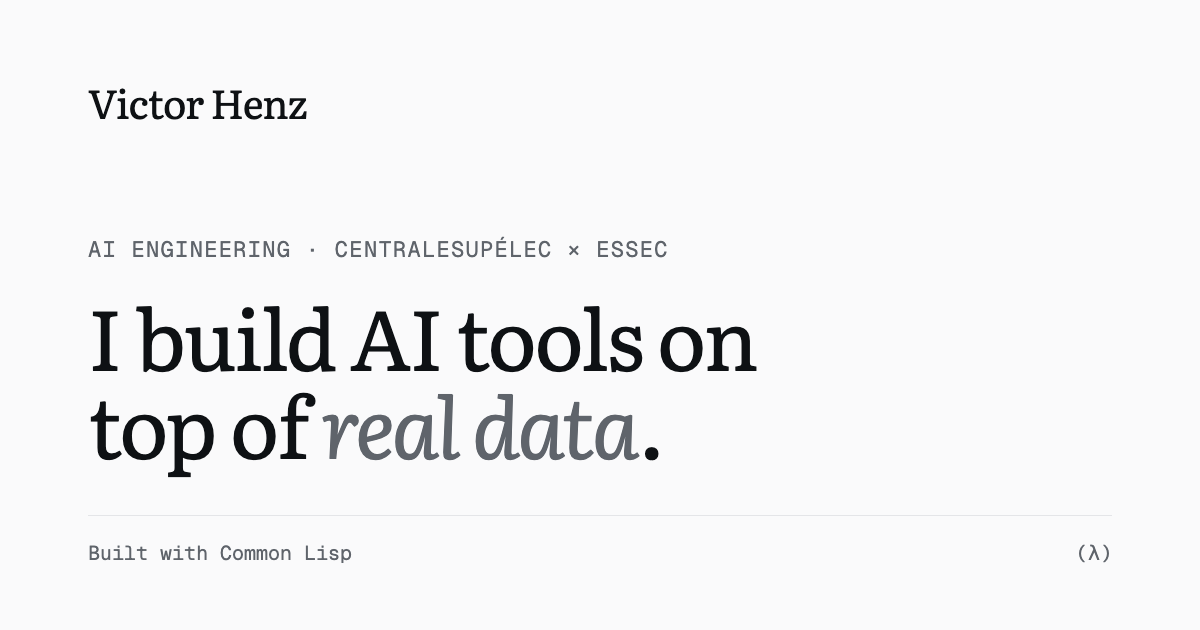
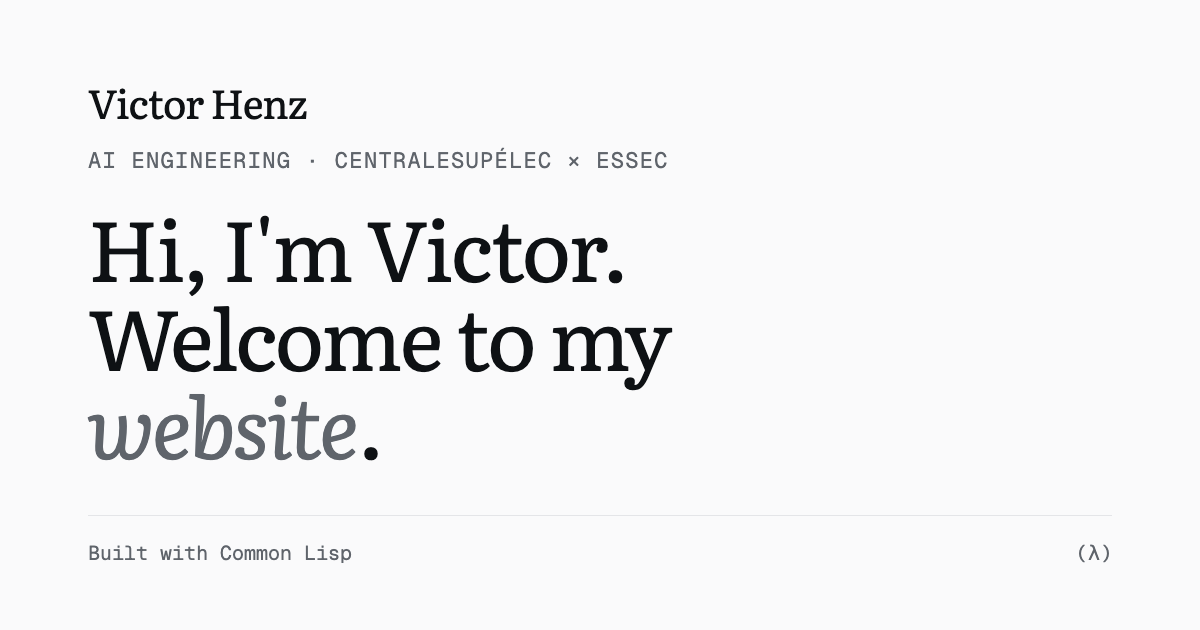
Headline: "Hi, I'm Victor. Welcome to my website."

diff --git a/scripts/og.html b/scripts/og.html
@@ -65,7 +65,7 @@
 <body>
   <p class="name">Victor Henz</p>
   <p class="eyebrow">AI engineering · CentraleSupélec × ESSEC</p>
-  <h1>I build AI tools on top of <em>real data</em>.</h1>
+  <h1>Hi, I'm Victor.<br>Welcome to my <em>website</em>.</h1>
   <p class="foot"><span>Built with Common Lisp</span><span>(λ)</span></p>
 </body>
 </html>

diff --git a/README.md b/README.md
@@ -2,7 +2,7 @@
 
 **Live:** https://victorhenz241-eng.github.io/victor_website/
 
-![Victor Henz — I build AI tools on top of real data.](static/og.png)
+![Victor Henz — Hi, I'm Victor. Welcome to my website.](static/og.png)
 
 My personal website: who I am, what I've built, and where I've worked. It is
 generated by a few small Common Lisp programs. No framework, no npm, no build
